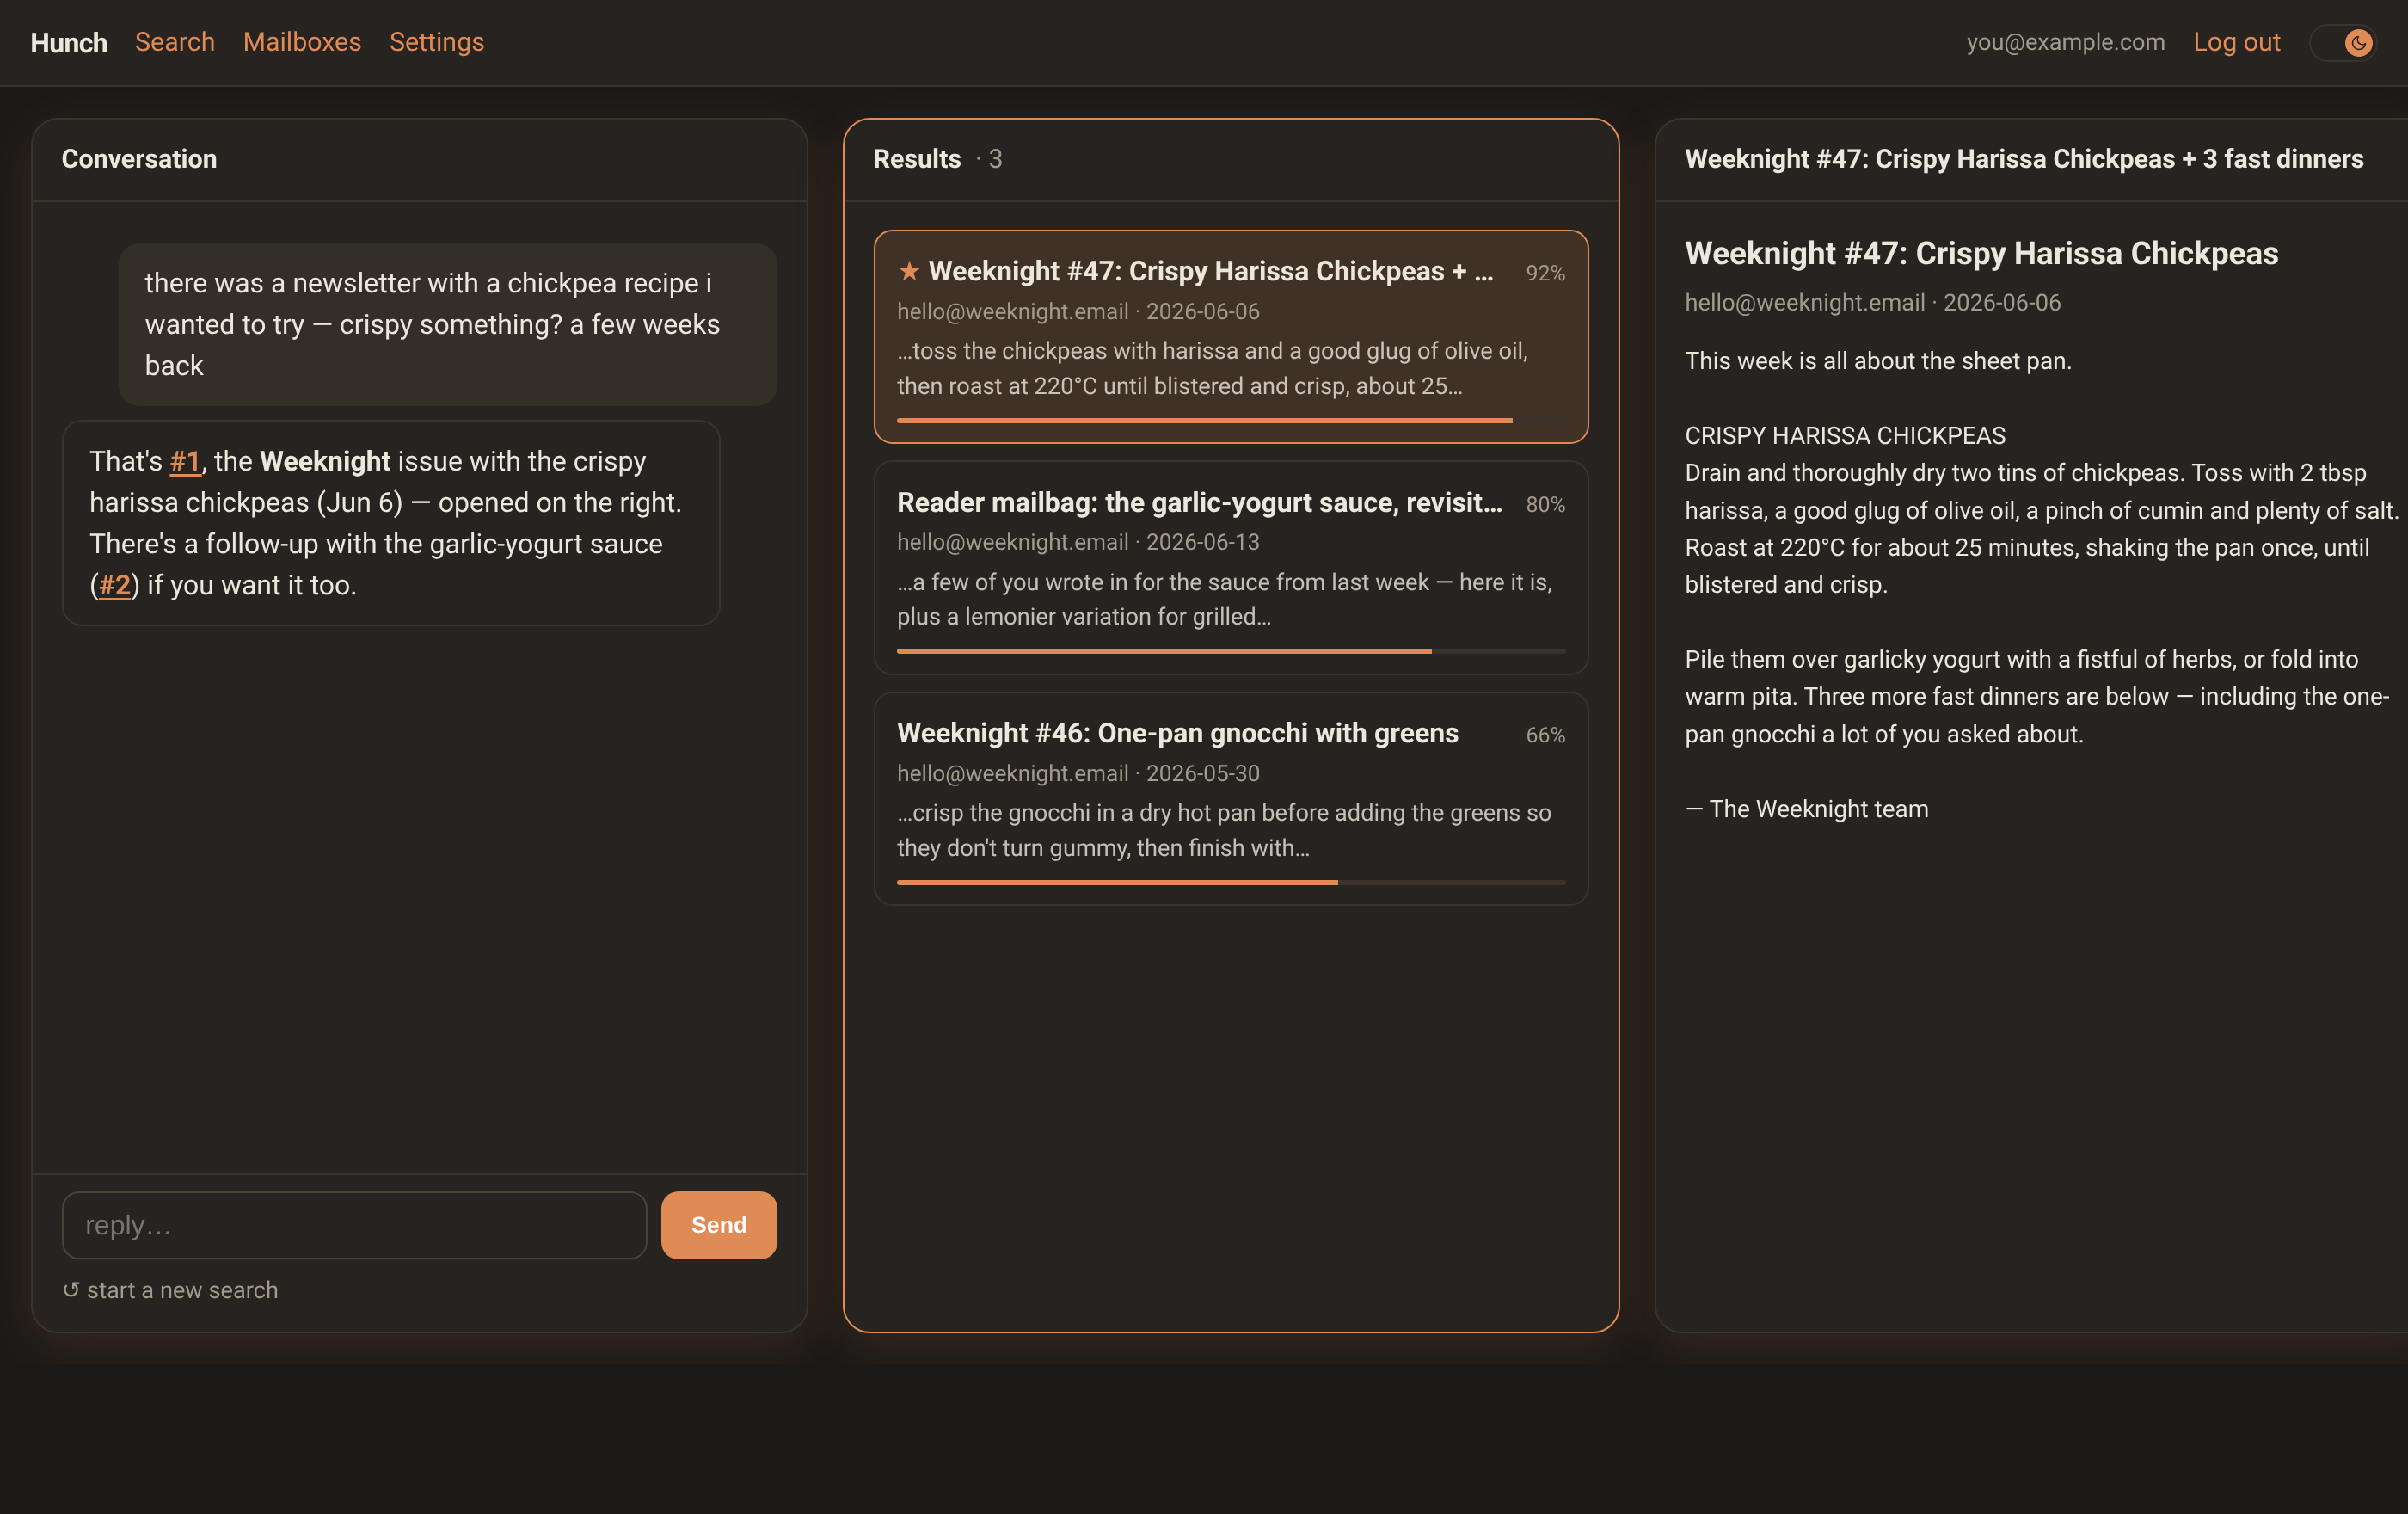
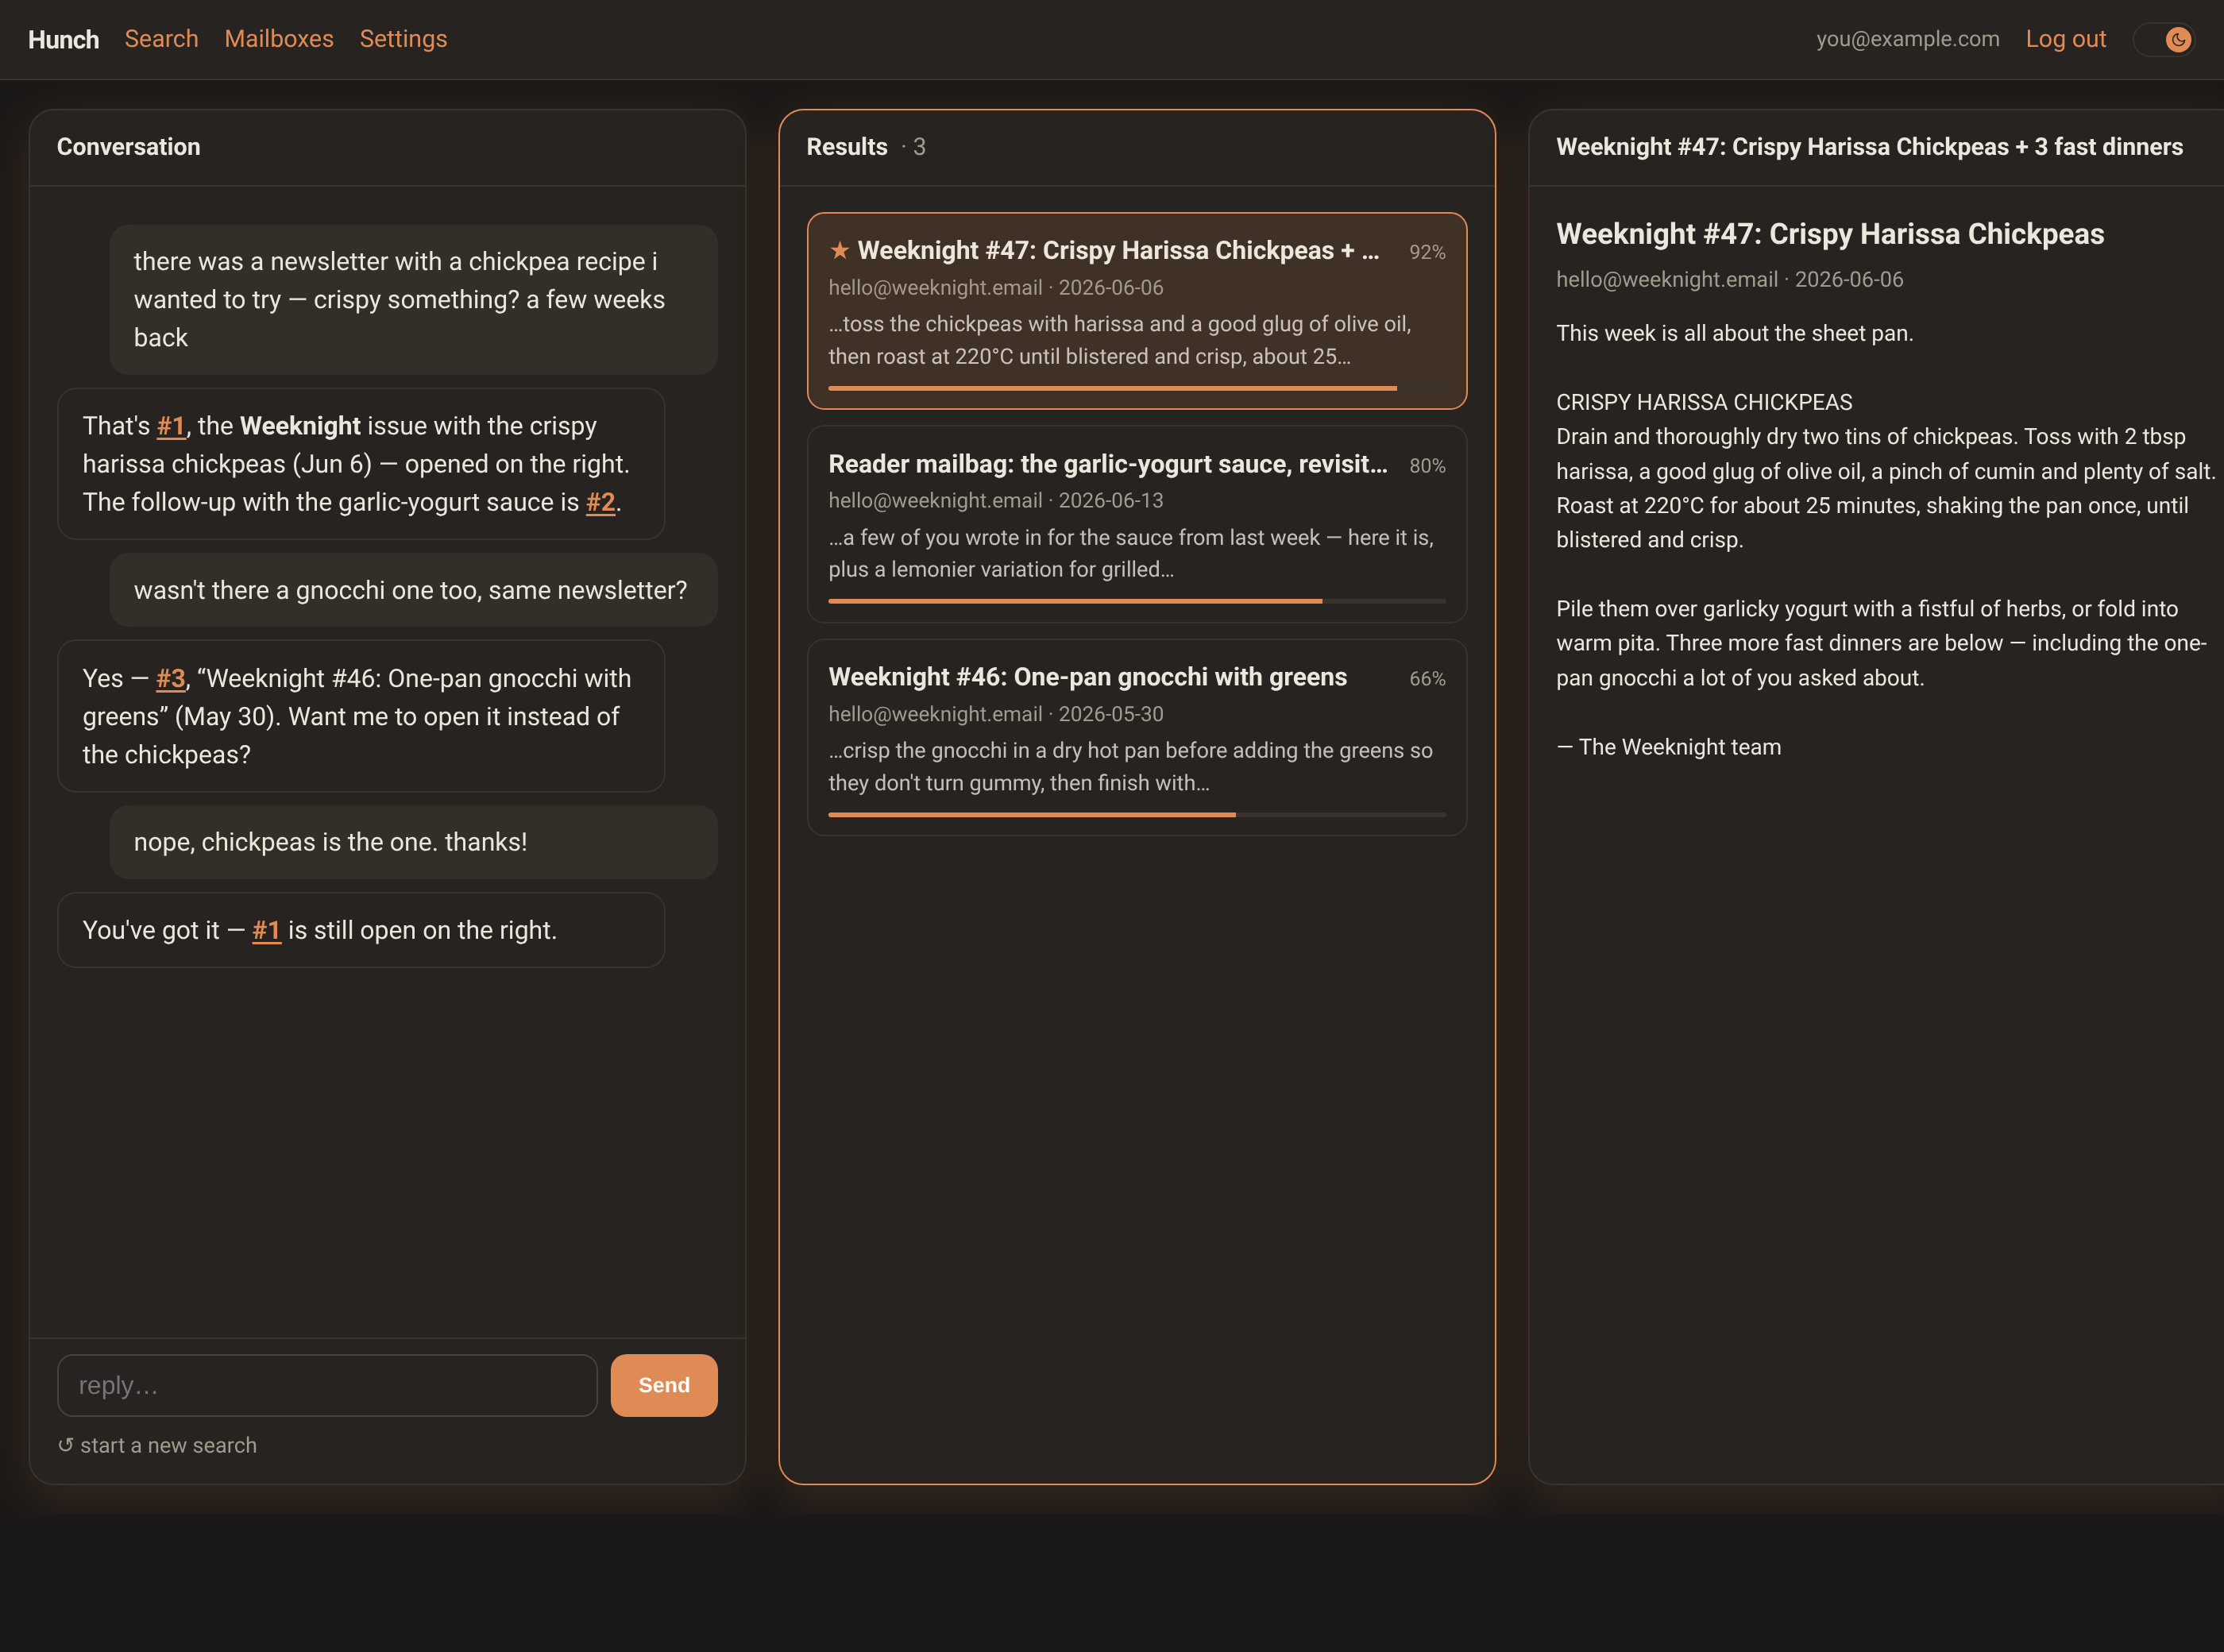
Show conversational drill-down and add a Mailboxes screenshot
Extend the two search mockups to multi-turn conversations that drill down
(clarify, answer a follow-up, then open the right email), which is the point
of a conversational search. Add a third screenshot of the Mailboxes screen —
connected IMAP accounts with per-mailbox sync status and local indexed counts
— wired into the README setup section and the site.

diff --git a/docs/index.html b/docs/index.html
@@ -90,11 +90,15 @@
             <div class="shots">
                 <figure>
                     <img class="shot" src="screenshot-lease.png" alt="Hunch resolving a vague search for a signed office lease: a conversation pane, live-ranked results with match scores, and the opened email side by side">
-                    <figcaption class="shot-cap">“the thing we signed for the new office, last spring?” → Hunch asks which document you meant and opens the countersigned lease.</figcaption>
+                    <figcaption class="shot-cap">“the thing we signed for the new office, last spring?” → Hunch asks which document you meant, answers a follow-up, and opens the countersigned lease.</figcaption>
                 </figure>
                 <figure>
                     <img class="shot" src="screenshot-recipe.png" alt="The same three-pane workflow in dark mode, finding a newsletter recipe from a fuzzy description">
-                    <figcaption class="shot-cap">“a newsletter with a crispy chickpea recipe, a few weeks back?” → found and opened, in dark mode.</figcaption>
+                    <figcaption class="shot-cap">“a newsletter with a crispy chickpea recipe, a few weeks back?” → drill down over a couple of replies, found and opened, in dark mode.</figcaption>
+                </figure>
+                <figure>
+                    <img class="shot" src="screenshot-mailboxes.png" alt="The Mailboxes screen showing two connected IMAP accounts with sync status and indexed counts, plus the add-mailbox form">
+                    <figcaption class="shot-cap">Connect any IMAP account — Proton, Gmail, Fastmail — and Hunch indexes it locally, on your own machine.</figcaption>
                 </figure>
             </div>
         </div>

diff --git a/README.md b/README.md
@@ -33,6 +33,10 @@ Accounts are invite-only (an admin provisions them — no open sign-up), and eac
 
 ## Try it
 
+Connect any IMAP account (Proton, Gmail, Fastmail, …); Hunch syncs it in the background and indexes it **on your own machine** — you can watch the count climb, and search as soon as there's anything to find.
+
+![The Mailboxes screen: two connected IMAP accounts with per-mailbox sync status and indexed counts, plus the add-mailbox form](docs/screenshot-mailboxes.png)
+
 Hunch is self-hosted and deploys on [Symfony Cloud](https://symfony.com/cloud/). To run it yourself, see **[DEVELOPMENT.md](DEVELOPMENT.md)** for setup and **[ARCHITECTURE.md](ARCHITECTURE.md)** for how it's built and why.
 
 ## License